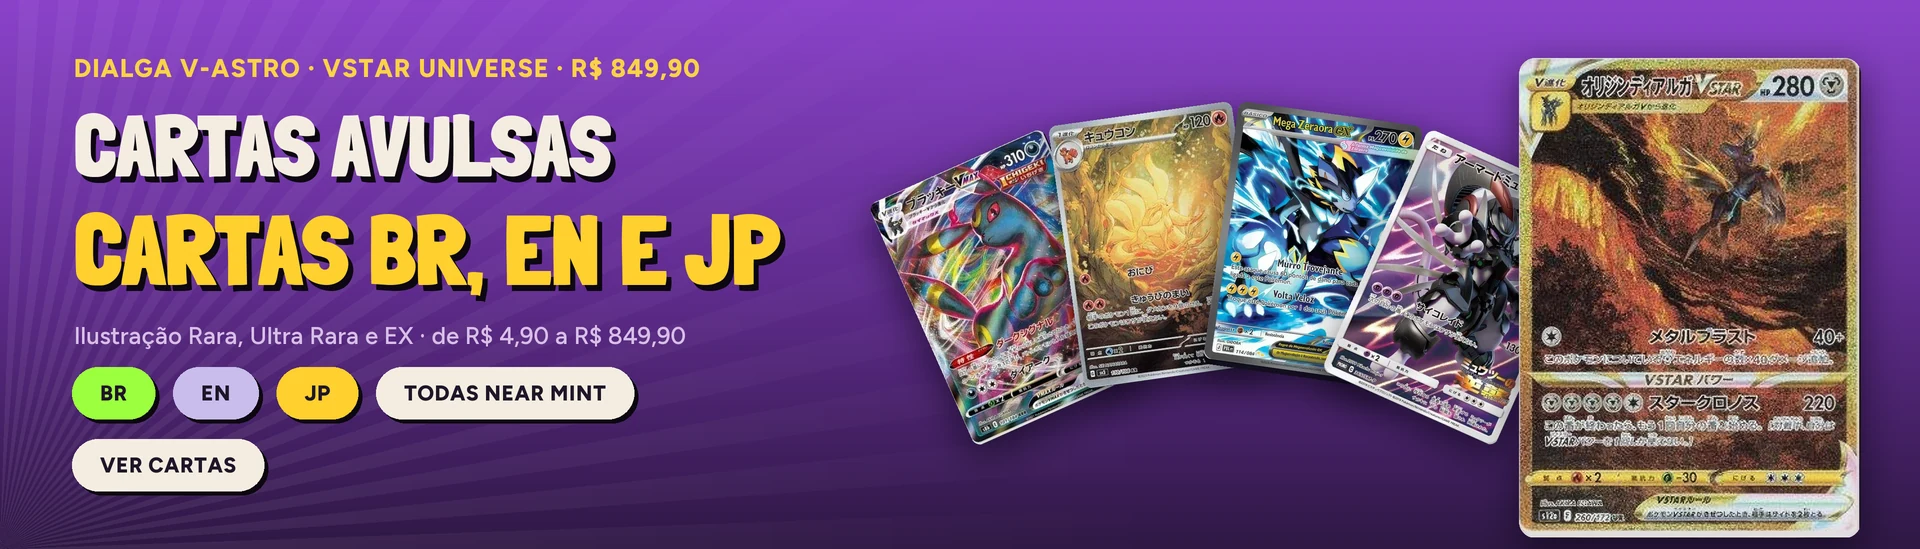
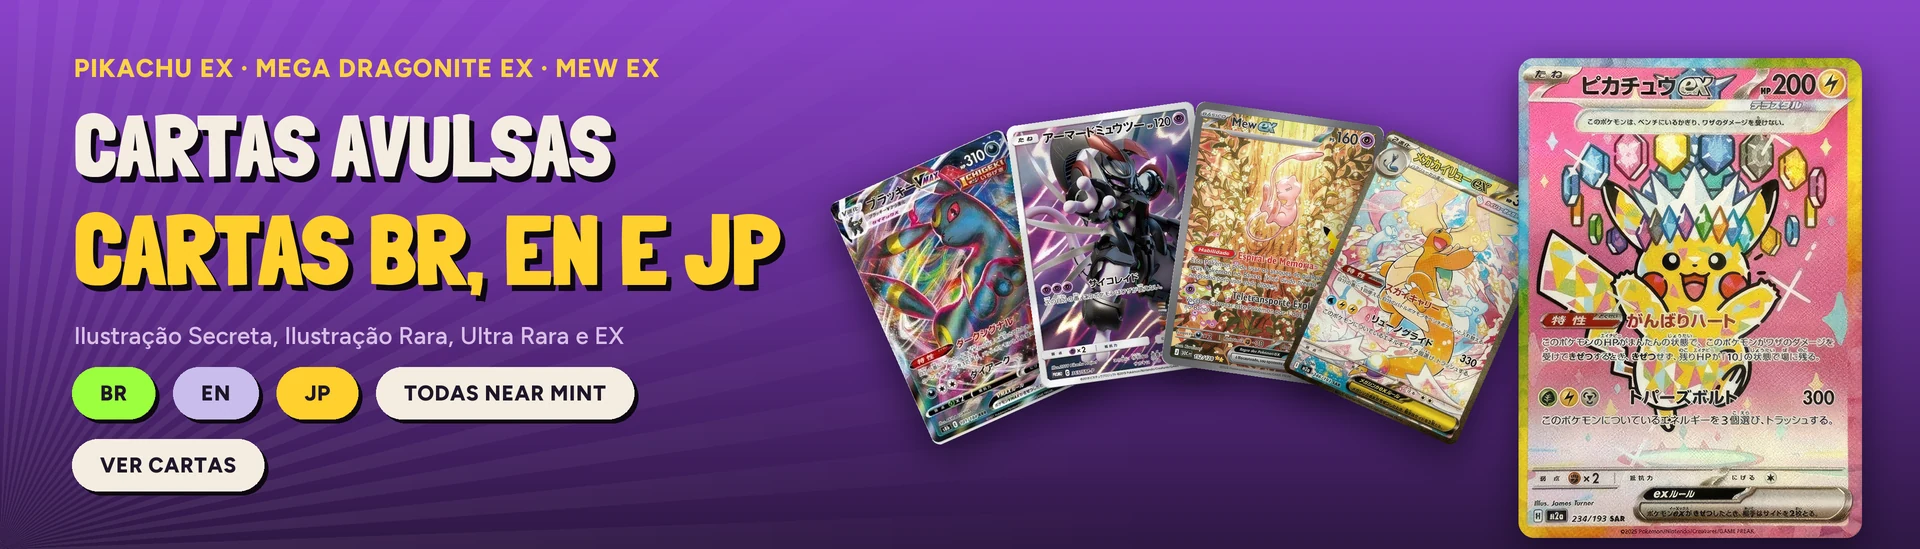
Slide Cartas avulsas: Pikachu ex 234/193 na frente, Mega Dragonite ex e Mew ex no leque, sem preço na arte

diff --git a/dist/mm.js b/dist/mm.js
@@ -25,6 +25,8 @@ try {
    Cartas avulsas refeito em 09/10/2026 e de novo em 11/10/2026 (banners/faz_banner_novo.py, cartas-avulsas): o
    Charizard 4/102 saiu na permuta das caixas do pôster; agora o herói é a Dialga V-ASTRO (JP) a R$ 849,90, com as
    outras cartas mais raras em estoque no leque. A faixa começa em R$ 4,90 e a peça não cita número de cartas.
+   27/10/2026, pedido do Caio: o Pikachu ex 234/193 (JP) entra na frente, no lugar da Dialga, e o Mega Dragonite ex
+   246/193 (JP) e o Mew ex 152/128 (30 Anos) vão para o leque. A peça ficou sem preço (o da Dialga tinha envelhecido).
    ETB Destined Rivals refeita em 11/10/2026 no padrão novo (etb-destined-rivals): preço fora da arte, caixa inteira,
    chamada também no celular. Todos os 7 banners ganharam a chamada (botão) na versão de celular em 11/10/2026.
    ETB Ascended Heroes entrou em 2º em 11/10/2026 (produto novo da aba selados): fundo = arte oficial do cabeçalho da
@@ -51,7 +53,7 @@ try {
     { banner: "banner-30-anos", href: "/produtos/box-colecao-com-poster-celebracao-de-30-anos-pt/",
       texto: "Box com Pôster da Celebração de 30 Anos, em português, R$ 189,90" },
     { banner: "banner-cartas-avulsas", href: "/cartas-avulsas/",
-      texto: "Cartas avulsas BR, EN e JP, de R$ 4,90 à Dialga V-ASTRO de R$ 849,90, todas Near Mint" },
+      texto: "Cartas avulsas BR, EN e JP: Pikachu ex, Mega Dragonite ex e Mew ex, todas Near Mint" },
     { banner: "banner-acessorios", href: "/acessorios/",
       texto: "Proteja sua coleção: acessórios BRA avulsos e em kits, a partir de R$ 20,90" },
     { banner: "banner-sunny", href: "/pelucias-e-brinquedos/",

diff --git a/src/js/hero.js b/src/js/hero.js
@@ -6,6 +6,8 @@
    Cartas avulsas refeito em 09/10/2026 e de novo em 11/10/2026 (banners/faz_banner_novo.py, cartas-avulsas): o
    Charizard 4/102 saiu na permuta das caixas do pôster; agora o herói é a Dialga V-ASTRO (JP) a R$ 849,90, com as
    outras cartas mais raras em estoque no leque. A faixa começa em R$ 4,90 e a peça não cita número de cartas.
+   27/10/2026, pedido do Caio: o Pikachu ex 234/193 (JP) entra na frente, no lugar da Dialga, e o Mega Dragonite ex
+   246/193 (JP) e o Mew ex 152/128 (30 Anos) vão para o leque. A peça ficou sem preço (o da Dialga tinha envelhecido).
    ETB Destined Rivals refeita em 11/10/2026 no padrão novo (etb-destined-rivals): preço fora da arte, caixa inteira,
    chamada também no celular. Todos os 7 banners ganharam a chamada (botão) na versão de celular em 11/10/2026.
    ETB Ascended Heroes entrou em 2º em 11/10/2026 (produto novo da aba selados): fundo = arte oficial do cabeçalho da
@@ -32,7 +34,7 @@
     { banner: "banner-30-anos", href: "/produtos/box-colecao-com-poster-celebracao-de-30-anos-pt/",
       texto: "Box com Pôster da Celebração de 30 Anos, em português, R$ 189,90" },
     { banner: "banner-cartas-avulsas", href: "/cartas-avulsas/",
-      texto: "Cartas avulsas BR, EN e JP, de R$ 4,90 à Dialga V-ASTRO de R$ 849,90, todas Near Mint" },
+      texto: "Cartas avulsas BR, EN e JP: Pikachu ex, Mega Dragonite ex e Mew ex, todas Near Mint" },
     { banner: "banner-acessorios", href: "/acessorios/",
       texto: "Proteja sua coleção: acessórios BRA avulsos e em kits, a partir de R$ 20,90" },
     { banner: "banner-sunny", href: "/pelucias-e-brinquedos/",
